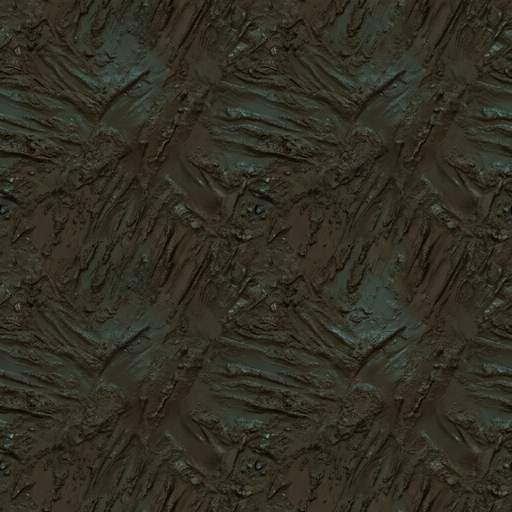
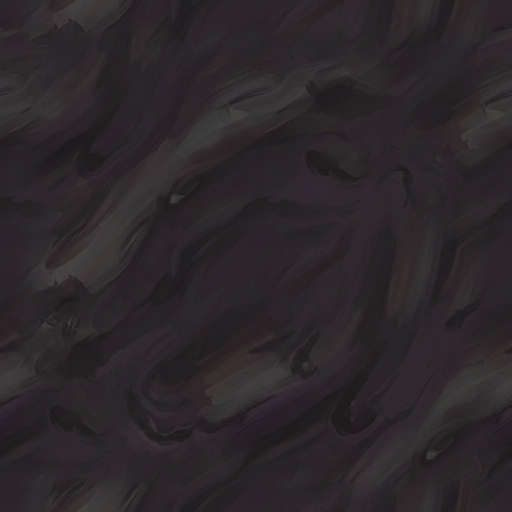
Chão natural refeito na paleta nova (v2): escuro, dessaturado, frio e calmo
- tools/texturas.json v2: estilo "gothic whimsical dark forest floor..." e cores da paleta do chão;
  pisos construídos presos à v1
- textures.py: estado, brutos e orçamento por versão
- Prévias 4x4 novas e comparacao_chao_v1_v2.jpg; paleta do chão na seção 17 do GDD
- 42 créditos (a grama teve segunda tentativa por chamar atenção no jogo)

Changed region(s): [[0.0, 0.0, 1.0, 1.0], [0.5625, 0.9375, 0.625, 1.0], [0.0625, 0.9375, 0.125, 1.0]]

diff --git a/tools/meshy_pipeline/textures.py b/tools/meshy_pipeline/textures.py
@@ -28,7 +28,9 @@ from PIL import Image, ImageFilter
 from pipeline import ROOT, Meshy, fetch
 
 CONFIG_FILE = ROOT / "tools/texturas.json"
-STATE_FILE = Path(__file__).with_name("textures_state.json")
+STATE_DIR = Path(__file__).parent
+# Cada versão das texturas tem seu estado e seu orçamento (os créditos das versões antigas não contam).
+STATE_FILE = STATE_DIR / "textures_state_v1.json"
 TEXTURE_DIR = ROOT / "assets/texturas/chao"
 RAW_DIR = TEXTURE_DIR / "bruto"
 PREVIEW_DIR = ROOT / "assets/previews/piso"
@@ -48,6 +50,11 @@ MIN_BAND_CONTRAST = 0.80
 FLATTEN_FRACTION = 0.25  # manchas maiores que isso (em fração do lado) contam como "iluminação"
 FLATTEN_STRENGTH = 0.75  # quanto dessas manchas sai, para a repetição 4x4 não formar listras
 MASK_SOFTNESS = 0.08  # distância de cor (0..1) em que a máscara de emissão vai de 1 a 0
+
+
+def use_version(version: str) -> None:
+    global STATE_FILE
+    STATE_FILE = STATE_DIR / f"textures_state_{version}.json"
 
 
 def load_state() -> dict:
@@ -261,7 +268,7 @@ def generate(meshy: Meshy, config: dict, state: dict, entry: dict) -> None:
             save_state(state)
             print(f"  {name} #{number}: {task['status']}")
             continue
-        raw = RAW_DIR / f"{name}_{number}.png"
+        raw = RAW_DIR / f"{name}_{config['versao']}_{number}.png"
         fetch(task["image_urls"][0], raw)
         texture, metrics = process(entry, raw, config["tamanho_px"])
         attempt.update(status="SUCCEEDED", raw=str(raw.relative_to(ROOT)), metricas=metrics)
@@ -284,8 +291,11 @@ def main() -> None:
     args = parser.parse_args()
 
     config = json.loads(CONFIG_FILE.read_text())
+    use_version(config["versao"])
     state = load_state()
-    entries = [e for e in config["texturas"] if not args.only or e["nome"] in args.only]
+    # Texturas presas a uma versão antiga ("versao" na entrada) ficam como estão.
+    entries = [e for e in config["texturas"]
+               if e.get("versao", config["versao"]) == config["versao"] and (not args.only or e["nome"] in args.only)]
 
     if args.reprocess:
         for entry in entries:

diff --git a/docs/DIARIO.md b/docs/DIARIO.md
@@ -890,3 +890,36 @@ onde errou, correções manuais e quanto tempo levou.
   pedem uma camada de piso na simulação (convivendo com construções e esteiras) e o efeito na velocidade.
 - **Correções manuais:** nenhuma.
 - **Tempo:** 04:00–04:40 de relógio.
+
+---
+
+## 2026-09-26 — Arte: chão refeito na paleta nova (v2: escuro, dessaturado, calmo)
+
+- **Agente / modelo:** Claude Code + Opus 5.5, agente de ARTE na branch `arte`.
+- **Pedido:** as texturas do chão fugiram do tema (saturadas, claras, com detalhe demais). Refazer com a
+  paleta nova do chão (terra escura #4A3B3A, terra arroxeada #3F3342, musgo acinzentado #4E5544, grama morta
+  #5A5847, pedra fria #66636B, lama #2E2931, líquen roxo #6B4F7C): tons escuros e frios, pinceladas largas,
+  pouco detalhe e contraste, espirais quase invisíveis, e o complemento de prompt "gothic whimsical dark
+  forest floor, twilight, muted desaturated colors, low contrast, broad painterly strokes, no highlights".
+  Prévias 4×4 lado a lado com as antigas. Limite de 100 créditos.
+- **O que foi feito:**
+  - A paleta não estava na minha cópia do GDD: acrescentada em "Piso e chão" (seção 17) com as regras.
+  - `tools/texturas.json` virou a versão `v2`: estilo novo e cada terreno com as cores novas (grama em musgo
+    acinzentado e grama morta; terra escura para arroxeada; pedra fria com líquen roxo; lama; areia de rio
+    cinza-oliva). Os pisos construídos ficam presos à `v1` (não foram pedidos).
+  - `textures.py`: estado, brutos e orçamento separados por versão (a `v1` continua recuperável).
+  - Resultado: 4 aprovadas de primeira; a areia de rio na segunda (a primeira tinha emenda). A grama passou
+    na checagem, mas no jogo as folhas pintadas e as espirais ainda chamavam atenção: usei a segunda tentativa
+    com o prompt mais explícito ("almost uniform, soft broad strokes, no individual leaves, only a few very
+    faint swirls"). Ficou a segunda.
+  - Medido (textura antes → depois): saturação de 0,24–0,70 para 0,08–0,20; contraste de 0,035–0,125 para
+    0,014–0,035; detalhe fino de 2,5 a 5 vezes menor; a areia foi de brilho 0,68 para 0,29. A grama ficou um
+    pouco mais clara (0,20 → 0,24), porque o musgo acinzentado da paleta é mais claro que o verde escuro da v1.
+  - Comparação: `assets/previews/piso/comparacao_chao_v1_v2.jpg` (antes à esquerda, depois à direita, com os
+    números). As prévias 4×4 de cada textura foram atualizadas.
+- **Créditos:** 42 (7 imagens). Saldo: 2.938 → 2.896.
+- **Atenção:** no jogo o chão parece mais claro que a textura, por causa do sol da cena. Se precisar ficar
+  mais escuro, é ajuste de luz ou de tom no shader, sem gerar imagem. Os pisos construídos (tábuas,
+  calçamento, rúnico) ainda estão na paleta antiga.
+- **Correções manuais:** nenhuma.
+- **Tempo:** 04:50–05:20 de relógio.

diff --git a/docs/GDD.md b/docs/GDD.md
@@ -549,6 +549,8 @@ Troque \[OBJETO\] pelo item (ex.: "blacksmith forge with bellows", "villager arc
 
 Toda textura passa por um teste: uma prévia repetida em 4×4 para achar emendas e repetição visível.
 
+**Paleta do chão (26/09/2026):** terra escura #4A3B3A · terra arroxeada #3F3342 · musgo acinzentado #4E5544 · grama morta #5A5847 · pedra fria #66636B · lama #2E2931 · líquen roxo #6B4F7C. Tons escuros, dessaturados e frios, sem verde vivo nem brilho de sol; pinceladas largas, pouco detalhe e contraste baixo, para o chão ser um fundo calmo que não compete com os personagens; espirais só sutis, escuro sobre escuro. Complemento do prompt: "gothic whimsical dark forest floor, twilight, muted desaturated colors, low contrast, broad painterly strokes, no highlights".
+
 ## 18. Integração das IAs com o Godot
 
 **Plano: os agentes de código (Claude Code e Codex) rodam no terminal dentro da pasta do projeto e se conectam ao editor Godot por um servidor MCP.** Com isso a IA enxerga as cenas reais, roda o jogo, lê os erros e corrige sozinha. Os assets 3D entram como arquivos GLB numa pasta que o Godot importa automaticamente.
